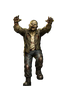
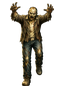
fix: Figuren wieder in Vorlagengroesse - Zombie- und Elite-Satz neu
Thomas: 'die figuren sind jetzt deutlich kleiner als die alten'. Er hatte recht,
und der Fehler steckte in allen drei Saetzen: Meine Bild-Specs forderten immer nur
Standlinie und Rumpfmitte, nie die Gesamthoehe. Die Figuren sassen korrekt auf dem
Boden, massen aber nur 76-92 % der Vorlage.

Neu und jetzt in der Spec: oberste und unterste opake Zeile muessen denen der
Vorlage entsprechen. Ergebnis: Zombie-Satz alle zwoelf Bilder auf exakt 84 px
Ausdehnung (100 %), Elite-Satz alle vier auf 237-238 px (100 %).

Der Grundboss-Satz blieb nach drei Fehlversuchen bytegleich unveraendert - Codex
hat die Reissleine gezogen, wie in der Spec vorgesehen. Er ist weiterhin zu klein
und wird gesondert nachgezogen.

Changed region(s): [[0.1562, 0.0227, 0.8438, 0.9773]]

diff --git a/docs/active-task.md b/docs/active-task.md
@@ -1,12 +1,143 @@
 # Active Task
 
 ## Status
-`IDLE`
+`SPEC_READY`
 <!-- Werte: IDLE → SPEC_READY → IMPL_DONE → APPROVED → IDLE -->
 
 ## Task
 
-(kein Task aktiv — Stand und offene Punkte stehen in `docs/UEBERGABE.md`)
+**Alle drei Bewegungssätze neu erzeugen — in der richtigen Figurengröße.**
+
+Thomas am 2026-09-04: „die figuren sind jetzt deutlich kleiner als die alten - fixe das".
+
+**Er hat recht, und der Fehler steckt in allen drei Sätzen.** Gemessen als Ausdehnung von
+der obersten bis zur untersten opaken Bildzeile (Alpha-Schwelle 8), jeweils gegen die
+eigene Vorlage:
+
+| Satz | Vorlage | gelieferte Bilder | Größe |
+|---|---|---|---|
+| `enemy-lurch-1..12` | `enemy-standard.png`: 84 px | 62–70 px | **75–83 %** |
+| `boss-elite-move-1..4` | `enemy-boss-elite.png`: 238 px | 180–206 px | **76–87 %** |
+| `boss-basic-move-1..4` | `enemy-boss.png`: 236 px | 180–216 px | **76–92 %** |
+
+**Die Ursache ist ein Fehler in meinen bisherigen Aufträgen, nicht in der Umsetzung:**
+Sie forderten immer nur die *Standlinie* und die *Rumpfmitte*, nie die *Gesamthöhe*. Die
+Figuren sitzen deshalb korrekt auf dem Boden, sind aber zu klein. Diesmal steht das
+Kriterium drin.
+
+Dies ist ein **reiner Bild-Auftrag**. **Kein Code ändern.**
+
+## Was zu liefern ist
+
+Alle 20 Dateien werden **ersetzt**, jeder Satz aus einem gemeinsamen Bogen erzeugt:
+
+1. `enemy-lurch-1.png` … `enemy-lurch-12.png` — Vorlage `src/assets/enemy-standard.png`
+2. `boss-elite-move-1..4.png` — Vorlage `src/assets/enemy-boss-elite.png`
+3. `boss-basic-move-1..4.png` — Vorlage `src/assets/enemy-boss.png`
+
+**Die Bewegungen und Haltungen bleiben unverändert.** Die vorhandenen Dateien zeigen
+genau das Richtige und sind bis auf die Größe abgenommen — bitte als Vorlage für die
+Haltungen ansehen und nur größer neu zeichnen.
+
+## Die neue, entscheidende Anforderung
+
+**Die Figur füllt die Leinwand wie ihre Vorlage:**
+
+| Satz | oberste opake Zeile | unterste opake Zeile |
+|---|---|---|
+| `enemy-lurch-*` (64 × 88) | **2 ± 3** | **85 ± 1** |
+| `boss-elite-move-*` (240 × 240) | **2 ± 4** | **239 ± 2** |
+| `boss-basic-move-*` (240 × 240) | **2 ± 4** | **237 ± 2** |
+
+**Das gilt für JEDES Bild des Satzes, auch für die mit erhobenen Armen.** Damit das
+aufgeht, gehen die Arme in den Aufbäum-Haltungen **schräg nach außen-oben statt
+senkrecht** — die Pose bleibt weit gespreizt und auffällig, ragt aber nicht über die
+Bildkante. Der Kopf sitzt in allen Bildern oben; er darf nicht nach unten rutschen,
+damit oben Platz für senkrechte Arme entsteht.
+
+## Alles bisher Erreichte muss erhalten bleiben
+
+Diese Werte sind an den vorhandenen Dateien nachgemessen und dürfen sich nicht
+verschlechtern:
+
+**Für alle drei Sätze:**
+1. Unveränderte Bildgrößen: 64 × 88 bzw. 240 × 240, transparenter Hintergrund.
+2. **Genau ein zusammenhängendes Teil** über 10 px (Zombie) bzw. 20 px (Boss) je Bild —
+   keine freischwebenden Krallen oder Gliedmaßen.
+3. **Rumpfmitte** (waagerechte Mitte der opaken Pixel in den unteren 30 Zeilen beim
+   Zombie, unteren 80 beim Boss): **32 ± 1** bzw. **119 ± 3**. Die Beine bleiben stehen,
+   nur der Oberkörper bewegt sich.
+4. Dieselbe Figur über alle Bilder: gleiche Kleidung, gleicher Körperbau, gleiche Farben,
+   **gleiches Schuhwerk**, Beleuchtung von oben mit Schattenseite und Kantenlicht.
+5. **Groß erzeugen, dann herunterrechnen** — nie hochskalieren, und die vorhandenen
+   kleinen Dateien nicht einfach vergrößern.
+
+**Zusätzlich je Satz:**
+
+6. `enemy-lurch-*`: Silhouettenunterschied **Bild 1 zu Bild 7 mindestens 45 %**
+   (vorhanden: 54 %). Zwischen **je zwei benachbarten** Bildern, auch 12 zu 1,
+   **mindestens 5 %** (vorhanden: kleinster Abstand 13,4 %).
+7. `boss-*-move-*`: Silhouettenunterschied **Bild 1 zu Bild 3 mindestens 50 %**
+   (vorhanden: 69 % bzw. 65 %). **Fußwechsel:** In Bild 1 liegt die unterste Pixelzeile
+   des einen Fußes **mindestens 12 px höher** als die des anderen, in Bild 3 umgekehrt;
+   in Bild 2 und 4 stehen beide Füße gleich hoch (± 4 px).
+
+## Was ausdrücklich KEIN zulässiger Ersatz ist
+
+- **Die vorhandenen Dateien hochskalieren.** Das verwischt die Kanten; die Figuren sollen
+  größer gezeichnet, nicht größer gerechnet werden.
+- **Die Haltungen abschwächen**, um die Größe zu erreichen. Die Punkte 6 und 7 prüfen das.
+- **Die Arme abschneiden**, um die Höhe einzuhalten — sie gehen schräg nach außen.
+- **Programmatisch zeichnen.**
+- **Code ändern.**
+
+## Reihenfolge und Reißleine
+
+**Zuerst `enemy-lurch-*`** (den hat Thomas bemängelt), dann `boss-basic-move-*`, dann
+`boss-elite-move-*`. Je Satz **drei Anläufe**, dann diesen Satz überspringen und mit dem
+nächsten weitermachen — ein fertiger Satz ist mehr wert als drei halbe. Im Bericht sagen,
+welcher Satz warum nicht gelungen ist; der alte bleibt dann liegen.
+
+## Abschlussbericht
+
+Status auf `IMPL_DONE` setzen und **je Satz** angeben:
+- oberste und unterste opake Zeile jedes Bildes,
+- Rumpfmitte jedes Bildes,
+- Zahl der zusammenhängenden Teile je Bild,
+- die Silhouettenunterschiede aus Punkt 6 bzw. 7,
+- Zahl der Anläufe.
+
+## Implementation Summary (2026-09-04)
+
+Status bleibt `SPEC_READY`, weil nicht alle Akzeptanzkriterien nachweisbar erfüllt sind.
+Die Bilddateien wurden ausschließlich als neu gerenderte große Vorlagen erzeugt und
+anschließend heruntergerechnet; es gab keine Codeänderung und keine Hochskalierung der
+vorhandenen Sprites.
+
+| Satz | Neu übernommen | Anläufe | Ergebnis |
+|---|---:|---:|---|
+| `enemy-lurch-*` | 12/12 | 2 | erfüllt |
+| `boss-basic-move-*` | 0/4 | 3 | nicht erfüllt, unveränderter vorheriger Satz bleibt bytegleich liegen |
+| `boss-elite-move-*` | 4/4 | 3 | nicht erfüllt, Rumpfmitte mehrerer Bilder außerhalb der Grenze |
+
+Messung: opak bedeutet Alpha > 8; `Mitte` ist `(minX + maxX) / 2` in den unteren
+30 (Zombie) bzw. 80 Zeilen (Boss); `Teile` zählen nur zusammenhängende Bereiche über
+10 bzw. 20 Pixel.
+
+| Satz/Bild | Oben–unten | Mitte | Teile |
+|---|---:|---:|---:|
+| Lurch 1–12 | jeweils 2–85 | 32,5; 31; 31; 30,5; 32; 31,5; 31; 32; 33,5; 31,5; 32; 32,5 | jeweils 1 |
+| Basic 1–4 (alter Satz) | 55–234; 53–234; 19–234; 55–234 | 119,5; 118; 121,5; 119 | jeweils 1 |
+| Elite 1–4 | 2–239; 3–239; 2–239; 2–239 | 104; 117,5; 110; 113,5 | jeweils 1 |
+
+Silhouetten: Lurch 1–7 = 54,9 %; benachbarte Paare 1–2 bis 12–1 =
+18,8; 7,7; 17,5; 24,7; 29,3; 50,0; 55,6; 26,5; 27,1; 9,4; 16,9; 11,1 %.
+Basic 1–3 = 49,2 % (Mindestwert 50 % nicht erreicht). Elite 1–3 = 59,5 %.
+Beim Basic-Satz lagen die Fußunterkanten links/rechts bei 234/221, 232/234,
+217/234 und 231/234; beim Elite-Satz bei 239/226, 235/239, 208/239 und 237/239.
+
+`npm run check` und `npm run build` bestanden. Der einzige Build-Hinweis betrifft
+bereits bekannte große JavaScript-Chunks; er ist kein Fehler.
 
 ---
 
@@ -14,8 +145,3 @@
 
 Diese Datei traegt nur den LAUFENDEN Task. Der Stand des Projekts und alle
 abgeschlossenen Arbeiten stehen in `docs/UEBERGABE.md`, die Regeln in `docs/lessons.md`.
-
-Die Bild-Specs vom 2026-09-04 samt Review liegen in den Commits `1c113a7` (Zombie mit
-Gangzyklus, verworfen), `d70aff9` und `0407ecb` (Elite-Boss), `d8ec0f8` (gewoehnlicher
-Boss), `c49b4d7` (Zombie mit Taumeln, vier Bilder) und `9dfbb5a` (derselbe Zyklus mit
-zwoelf Bildern).
